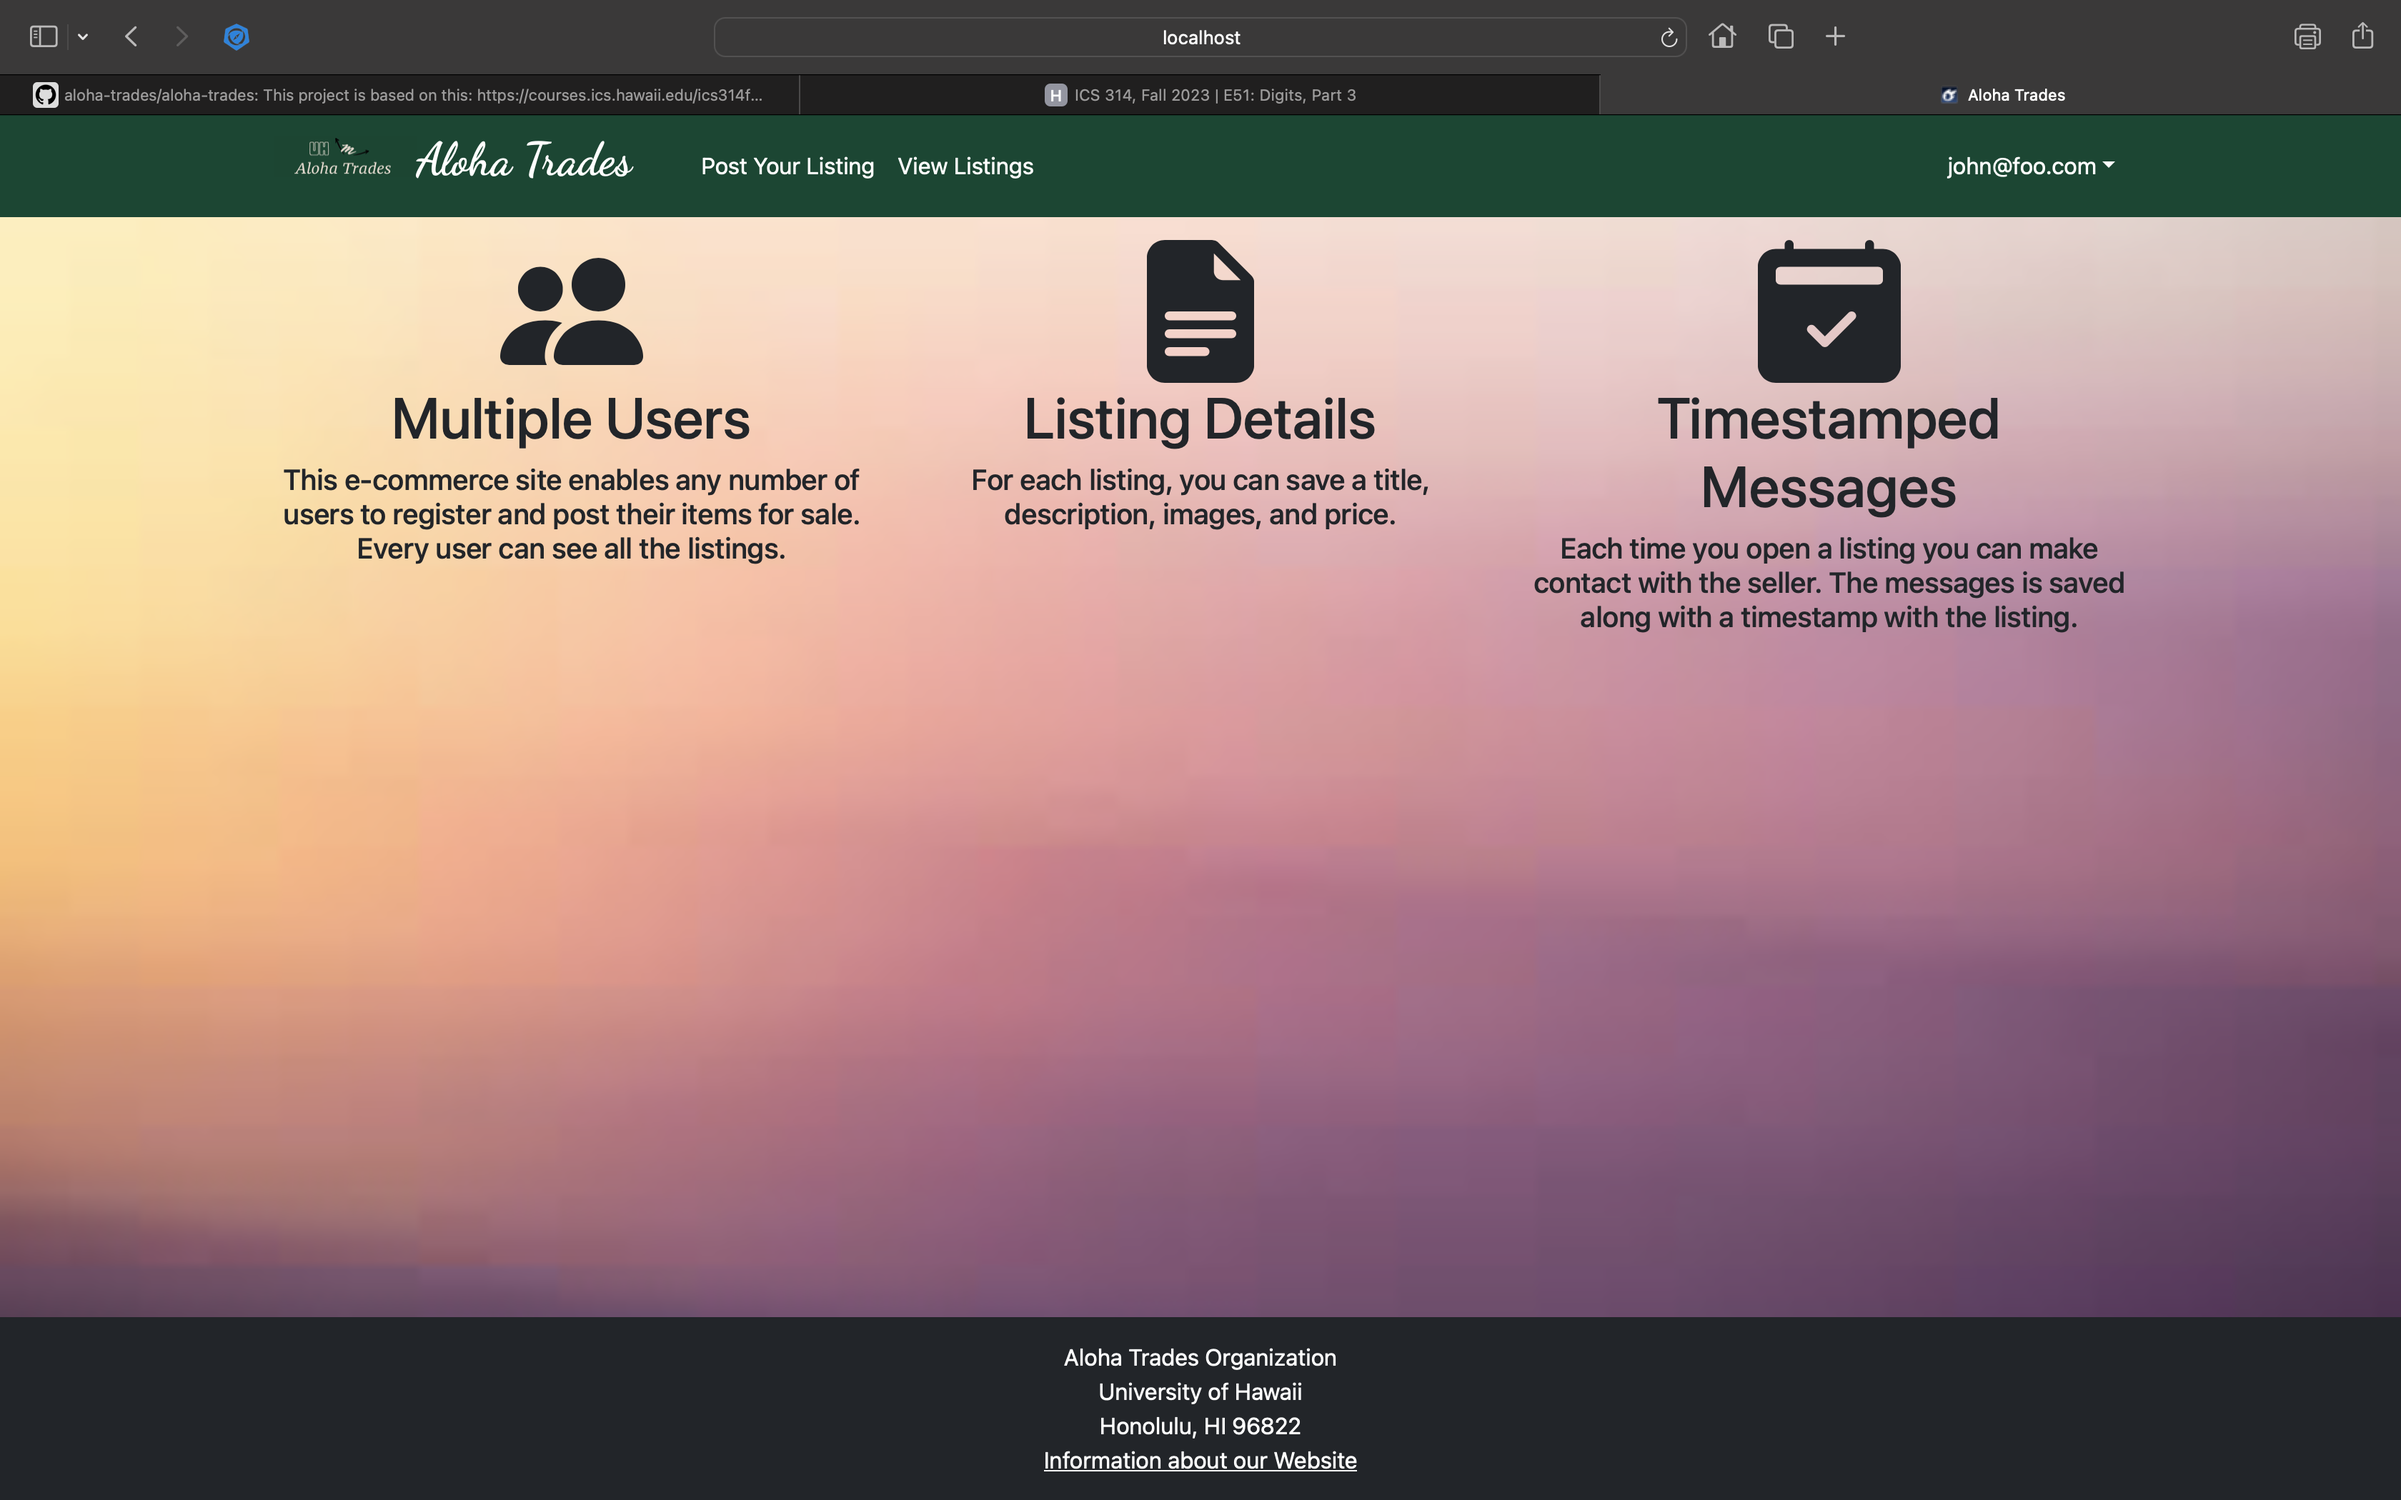
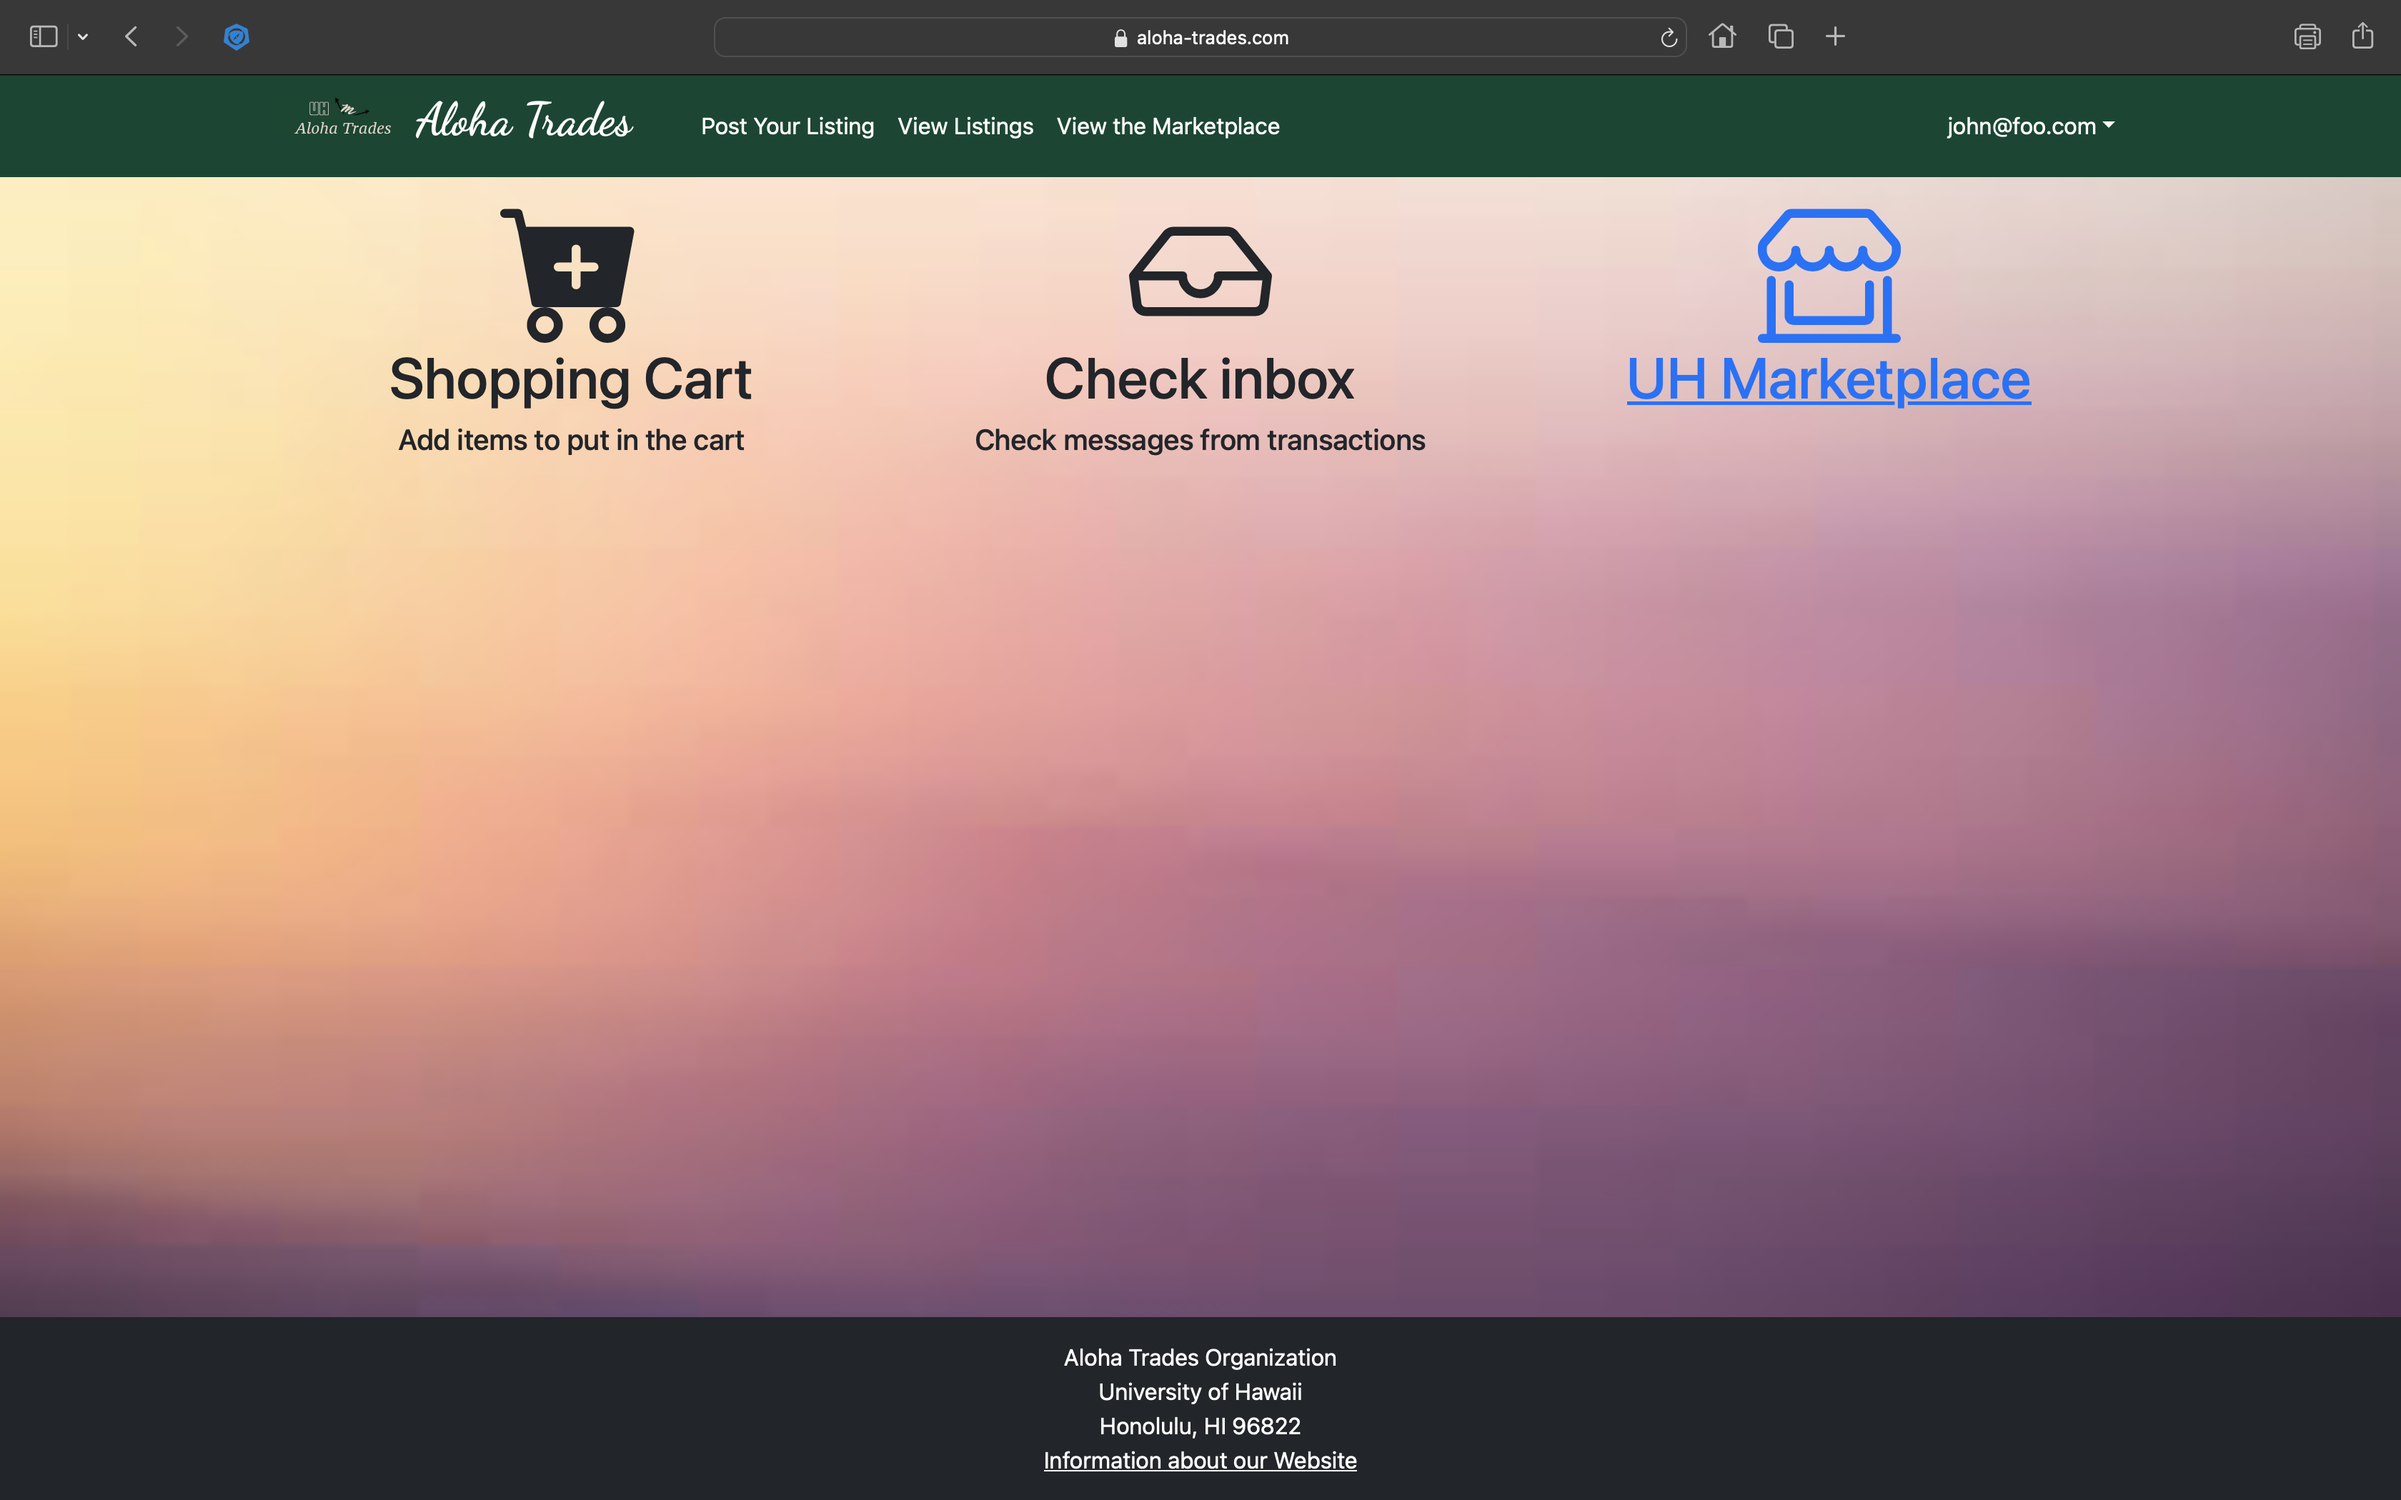
Updated organization page to reflect M2

Changed region(s): [[0.0, 0.0, 1.0, 0.4333]]

diff --git a/index.md b/index.md
@@ -13,24 +13,14 @@ In the following section, we will go over functionalities of our page.  In order
 ![Flowpath Diagram](imgs/flowpath.png)
 
 ### Landing page
-When you retrieve the app at http://146.190.156.137, this is what should be displayed:
+When you enter our sites url, https://aloha-trades.com, this is what should be displayed. You will have to have a UH account in order to use this website:
 
-
+![Screenshot of Ladning Page](imgs/SignInPage.png)
 
 The next step is to use the Login menu to either Login to an existing account or register a new account.
 
-### Login page
-Clicking on the Login link, then on the Sign In menu item displays this page:
-
-![Screenshot of Login Page](imgs/SignInPage.png)
-
-### Signup page
+### Sign-up/Sign-in page
 Alternatively, clicking on the Login link, then on the Sign Up menu item displays this page:
-
-* M1-M2 goal:
-
-  * Sign up limited to @hawaii.edu email addresses.
-  * Name, Age, Profile Pic, etc.
 
 ![Screenshot of Sign-up Page](imgs/SignUpPage.png)
 
@@ -39,50 +29,46 @@ Once you log in (either to an existing account or by creating a new one), the na
 
 ![Screenshot of Signe-in User's Navbar](imgs/LandingPage.png)
 
-### Listing page  (Under Construction//M2)
-After logging in, here is the page that allows you to see all available item listings:
+### View Listings Page
+After logging in, here is the page that allows you to see the listings you post:
 
-![Screenshot of Listing Page](imgs/ListingsPage.png)
+![Screenshot of View Listing Page](imgs/ViewListingPage.png)
 
-### Item Detail Page (Under Construction//M2)
+### Post a Listing
+After logging in, a user can post a listing. Fields required include: name, description, price, condition, category, and an image upload.  Here is the page that allows you to create a item listing:
+
+![Screenshot of Listing Post Page](imgs/PostListing.png)
+
+### Item Detail Page (Under Construction//M3)
 After clicking on an item, this page will show more information about the item and seller.
 
 
 
-### User - Post a Listing
-After logging in, a user can post a listing.  Fields required include: name, description, price, condition, category, and the optional image upload.  Here is the page that allows you to create a item listing:
+### View Marketplace
+After logging in, you can view listings on the market and profile information like name, contact, and profile image.
 
-![Screenshot of Listing Post Page](imgs/PostListing.png)
+![Screenshot of View Listing Page](imgs/ViewMarketplacePage.png)
 
-* M1-M2 goal:
+The marketplace will not show your listings. In the image the listing is owned by the admin.
 
-    * Add image upload functionality
-    * Format Listings as a Card, vice table.  
-  
-### User Profile Page (Under Construction//M2)
-After logging in, you can view your listings and profile information like name, contact, and profile image.
+Later if you want to edit your listings you can click the "Edit" link to go to the Edit Listing page, shown next.
 
-You click the "Edit" link to go to the Edit Listing page, shown next.
-### Edit Item page (Under Construction//M2)
+### Edit Item Page
 After clicking on the "Edit" link associated with an item, this page displays that allows you to change and save it:
 
-### Landing (after Login), Admin user
+![Screenshot of Edit Listing Page](imgs/EditListingPage.png)
+
+### NavBar (after Login), Admin user
 You can define an "admin" user in the settings.json file. This user, after logging in, gets a special entry in the navbar:
 
 ![Screenshot of Signe-in User's Navbar](imgs/AdminNavBar.png)
-
-### Admin Reports Page (Under Construction //M2)
-Admins can see all the reports made by users on other users who act suspiciously or are not from the university.
-
-
 
 ### Admin - Approving Posts
 Any listing posted must be approved by an admin.  While this may take time, it ensures quality of the postings on the page.  Also, it helps to keep malicious actors who may be using 'codewords' or suspicious activity down to a minimum (ideally zero).  
 
 Mockup Complete, but page is still a work in progress:
 
-![Screenshot of Admin approval Page](imgs/AdminApprovalPage2.png)
-
+![Screenshot of Admin approval Page](imgs/AdminApprovalPage.png)
 
 Admin users can approve or deny a post from being listed on the listings page.  
 
@@ -97,6 +83,8 @@ Admin users can approve or deny a post from being listed on the listings page.
 ### [M1 - Project Page](https://github.com/orgs/aloha-trades/projects/1)
 
 ### [M2 - Project Page](https://github.com/orgs/aloha-trades/projects/3)
+
+### [M# - Project Page]()
 
 ## Developer Guide
 ### Installation
